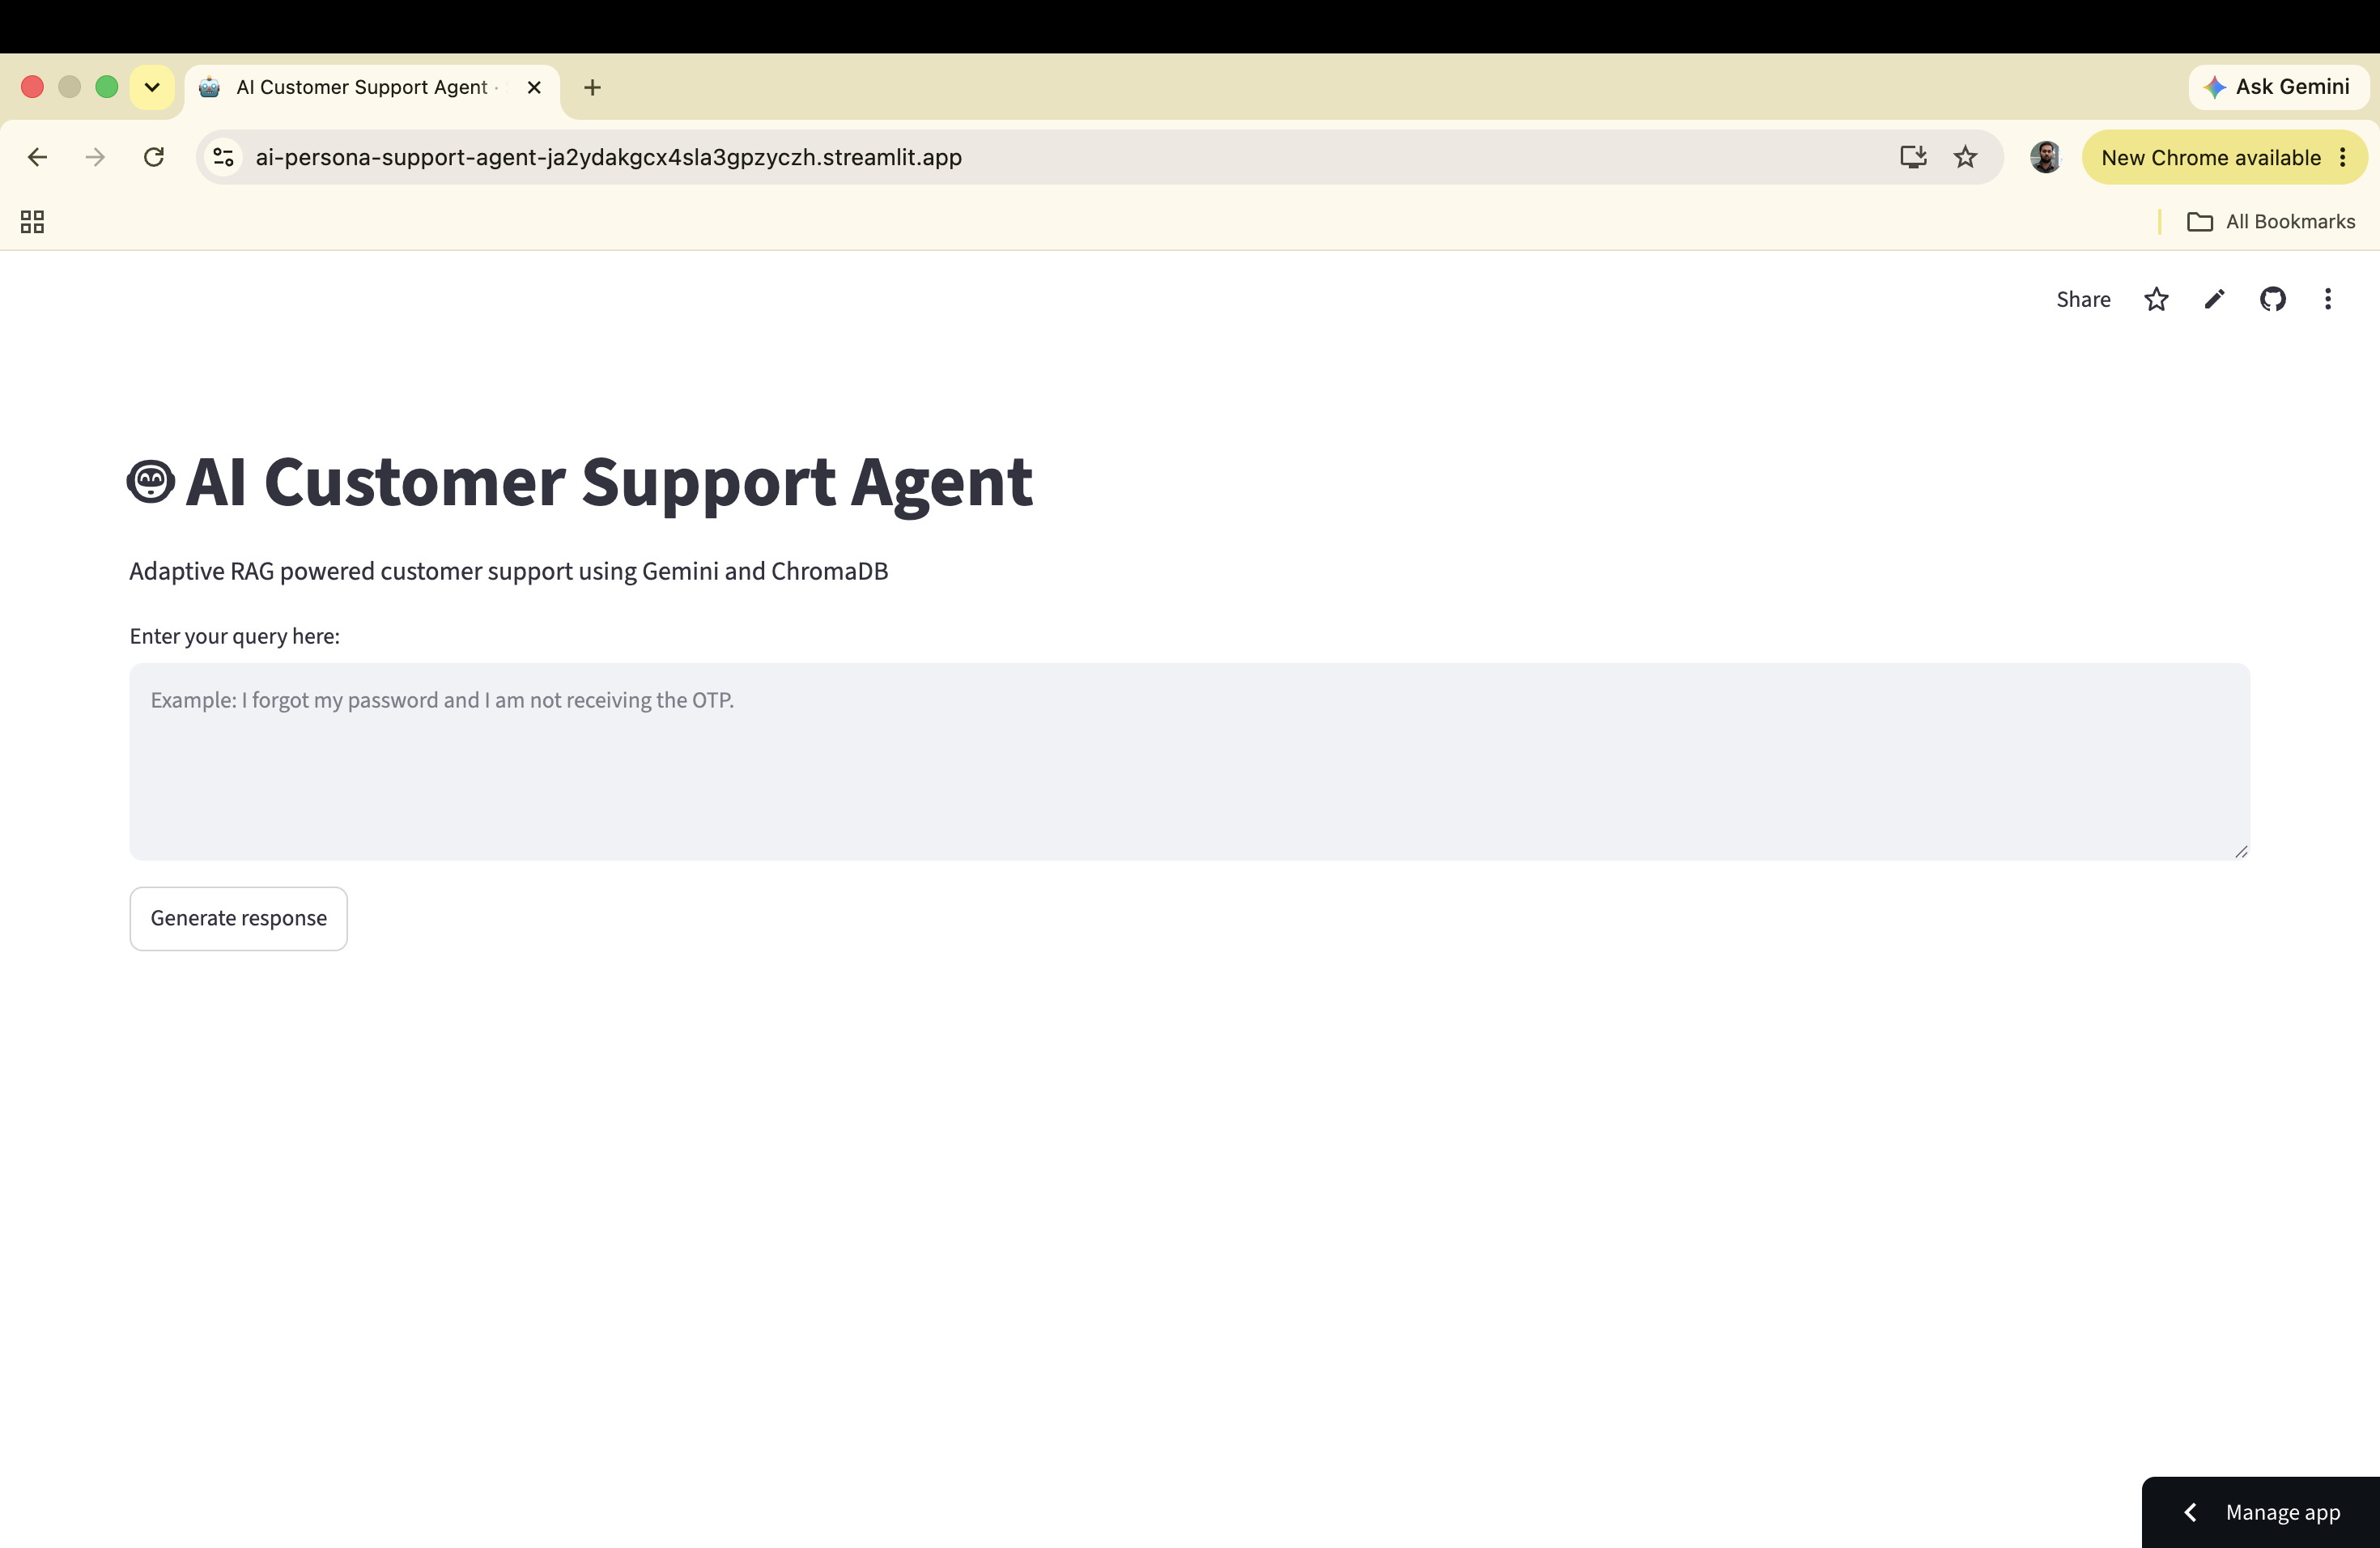
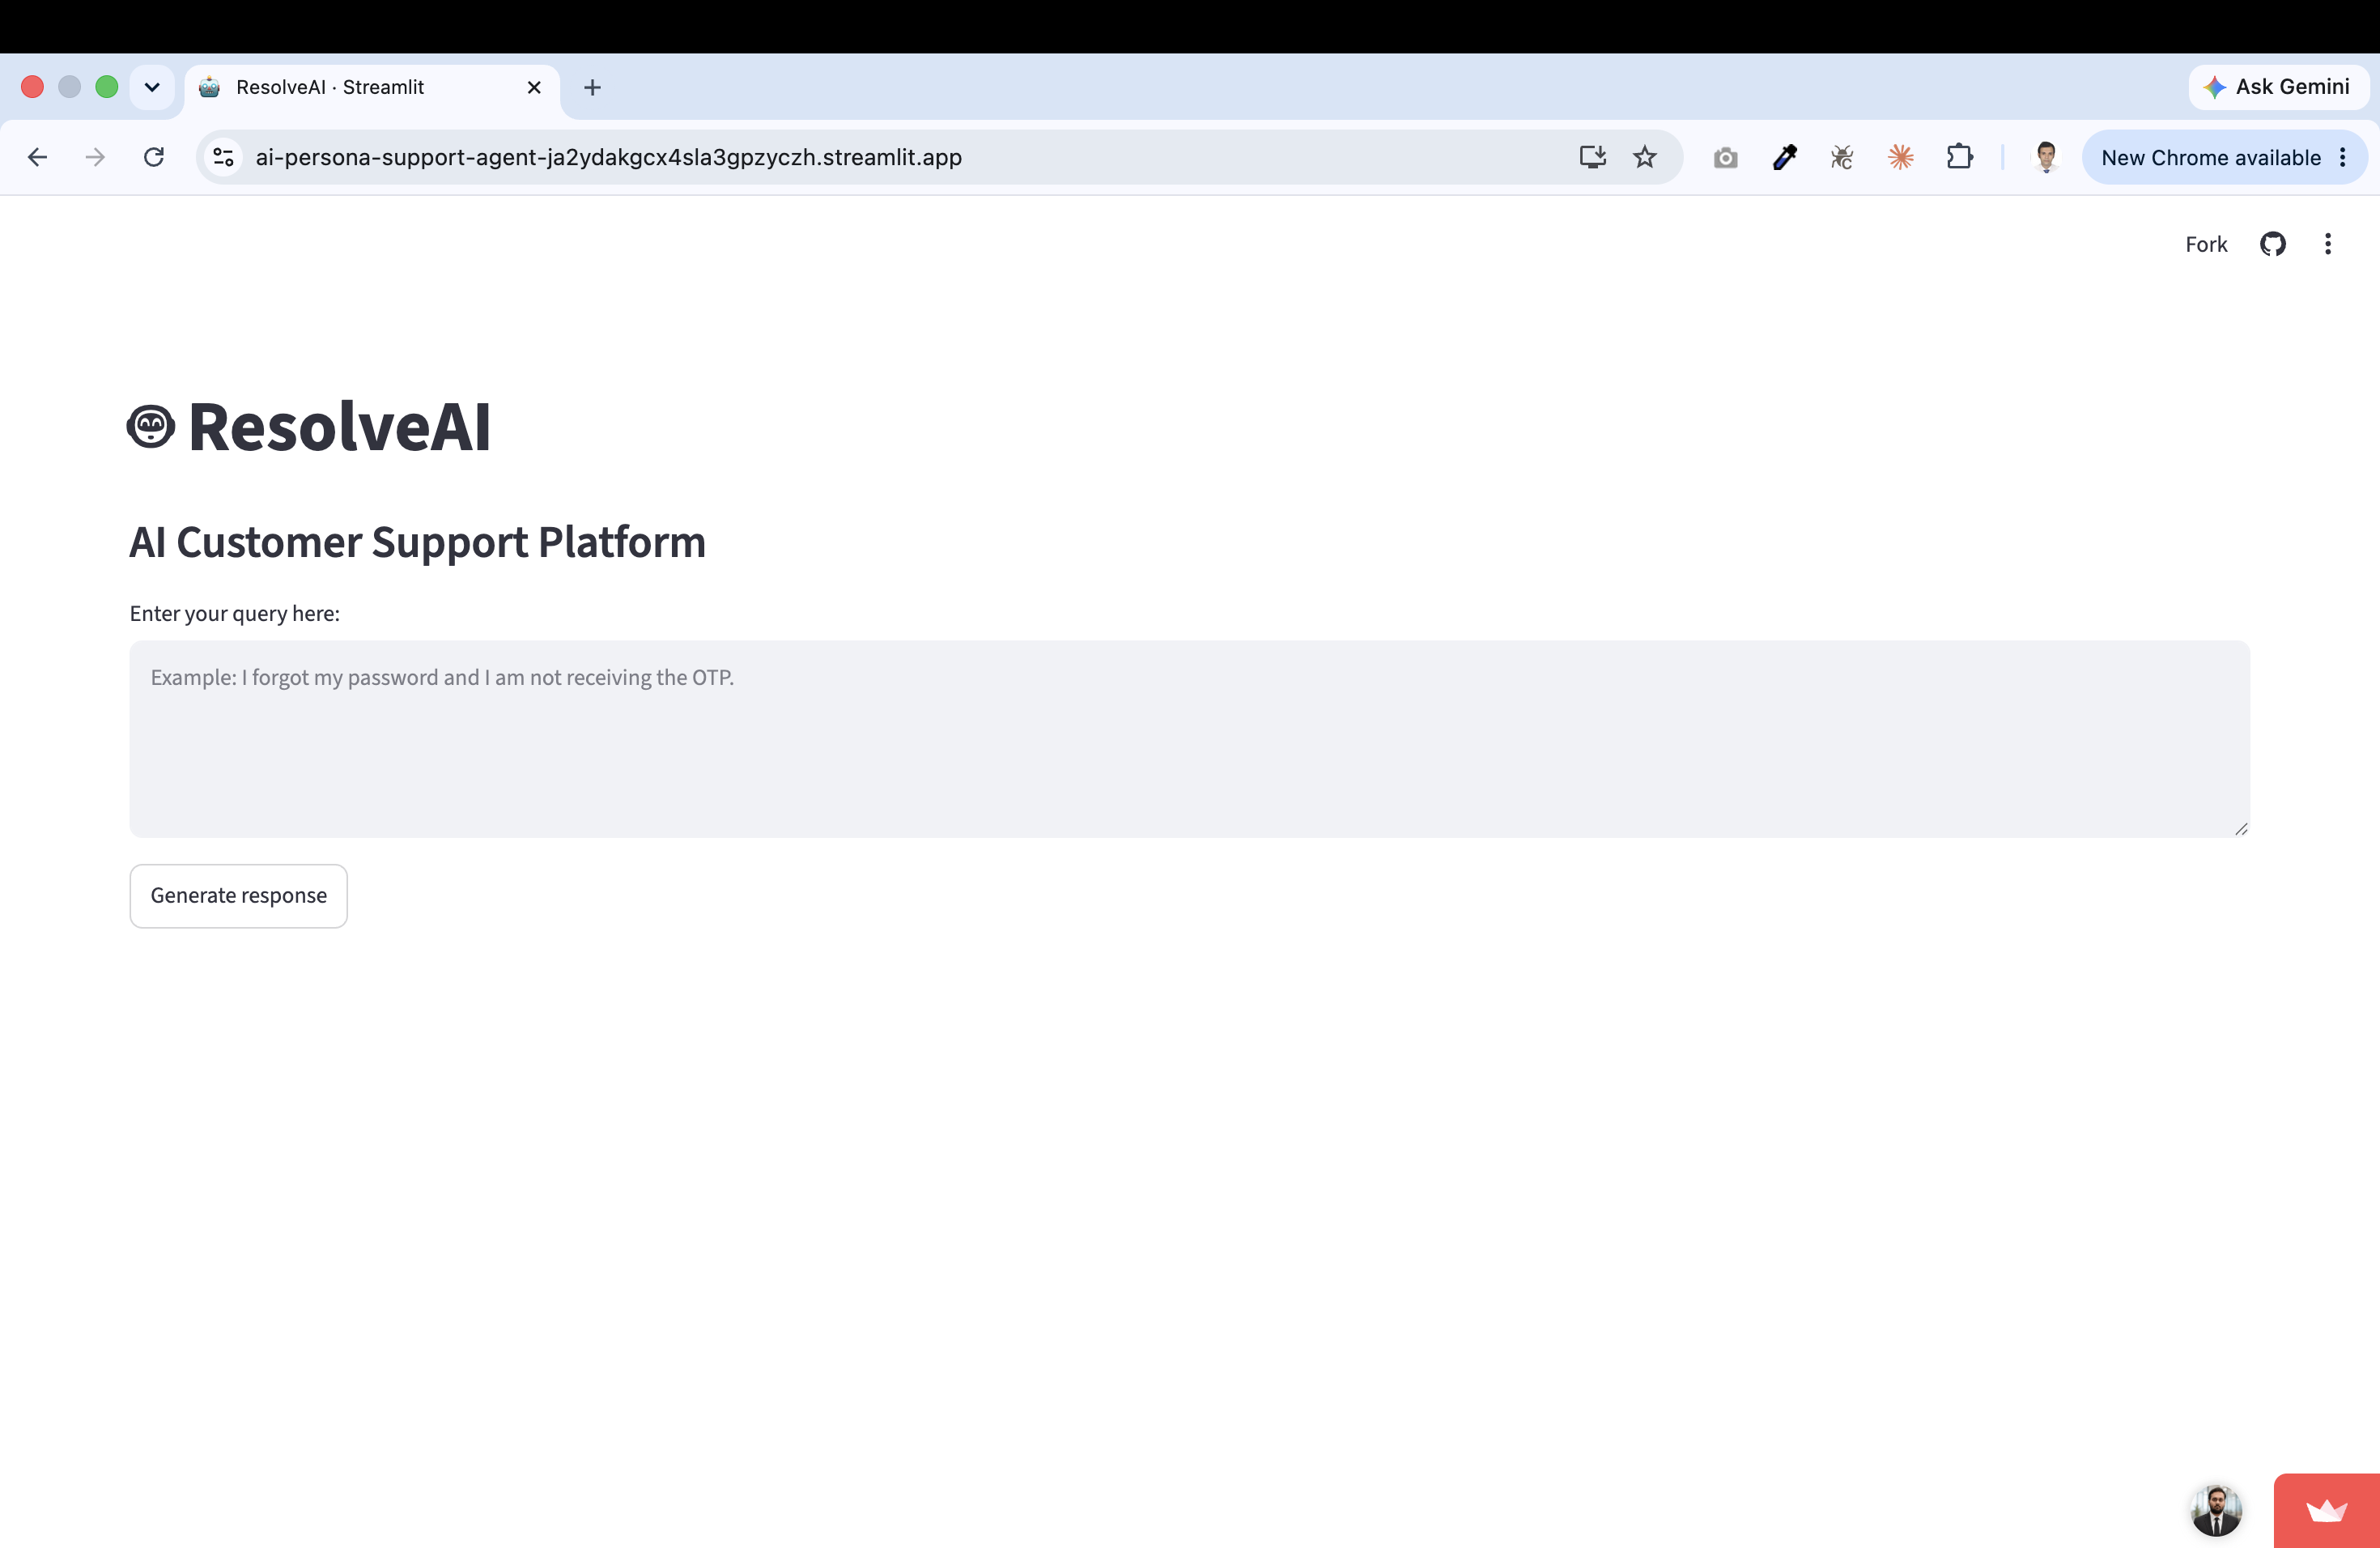
refactor: improve AI reliability and project documentation

diff --git a/src/ai_utils.py b/src/ai_utils.py
@@ -1,3 +1,4 @@
+import re
 import time 
 from collections.abc import Callable 
 from typing import Any
@@ -7,18 +8,32 @@ TEMPORARY_AI_ERRORS = [
     "unavailable",
     "high demand",
     "rate limit",
-    "quota",
     "deadline exceeded",
     "internal server error",
     "resource exhausted",
-    "service unavailable",
 ]
+
+def get_retry_delay(err: Exception, fallback_delay: int) -> int:
+    error_text = str(err).lower()
+
+    match = re.search(r"retrydelay.*?(\d+)s", error_text)
+    if match:
+        return int(match.group(1)) + 1
+
+    match = re.search(r"please retry in (\d+)s", error_text)
+    if match:
+        return int(match.group(1)) + 1
+
+    return fallback_delay
 
 def is_temporary_ai_error(err: Exception) -> bool:
     """
     Check if the error is a temporary AI error based on its message.
     """
     error_text = str(err).lower()
+
+    if "quota exceeded" in error_text :
+        return False  # These are not considered temporary errors for retry purposes
 
     return any(keyword in error_text for keyword in TEMPORARY_AI_ERRORS)
 
@@ -38,11 +53,14 @@ def retry_ai_call(
 
     for attempt in range(retries):
         try: 
-            return func(*args, **kwargs)
+            result = func(*args, **kwargs)
+            return result
         except Exception as error:
             last_error = error
             if is_temporary_ai_error(error) and attempt < retries - 1:
-                delay = initial_delay * (2 ** attempt)
+                fallback_delay = initial_delay * (2 ** attempt)
+                delay = get_retry_delay(error, fallback_delay)
+                
                 time.sleep(delay)
                 continue
             

diff --git a/app.py b/app.py
@@ -30,7 +30,6 @@ if st.button('Generate response'):
             context_chunks = format_search_results(results)
 
             response = retry_ai_call(generate_adaptive_response, user_query, persona, context_chunks)
-        
         st.subheader("Detected Persona:")
             
         st.markdown(f"**Persona:** {persona}")
@@ -57,7 +56,13 @@ if st.button('Generate response'):
             st.info("No files were retrieved.")
 
     except Exception as e:
-        if is_temporary_ai_error(e):
+        error_message = str(e).lower()
+        if 'quota exceeded' in error_message:
+            st.warning(
+                "ResolveAI has reached the free-tier quota for AI usage limit for today. \n\n"
+                "Please retry again later."
+            )
+        elif is_temporary_ai_error(e):
             st.warning(
                 "ResolveAI is temporarily experiencing high demand from the AI service.\n\n"
                 "Please wait a few moments and try again."

diff --git a/src/vector_store.py b/src/vector_store.py
@@ -44,7 +44,10 @@ def add_chunks_to_vector_store(chunks):
 
 def initialize_vector_store():
     if collection.count() > 0:
+        print("Using existing ChromaDB collection.")
         return 
+    
+    print("Building ChromaDB collection...")
     
     documents = load_documents()
     chunks = split_documents(documents)

diff --git a/README.md b/README.md
@@ -17,6 +17,7 @@ It is built with Google Gemini, ChromaDB, LangChain text splitting, and Streamli
 - Generated context-aware responses using Google Gemini
 - Added confidence-based escalation when retrieved context is insufficient
 - Created a Streamlit interface for testing support queries interactively
+- Implemented reusable retry handling with exponential backoff for improved resilience against temporary AI service failures
 
 ## Features ✨
 
@@ -34,6 +35,7 @@ It is built with Google Gemini, ChromaDB, LangChain text splitting, and Streamli
 - Supports `.md`, `.txt`, and `.pdf` knowledge documents
 - Automatic chunking with LangChain text splitters
 - Streamlit web interface
+- Automatic retry with exponential backoff for temporary AI service failures
 
 ## Tech Stack 🧰
 
@@ -83,12 +85,14 @@ flowchart TD
 customer-support-agent/
 |
 |-- app.py
+|-- chroma_db
 |-- requirements.txt
 |-- README.md
 |-- .env.example
 |-- data/
 |-- screenshots/
 |-- src/
+|   |-- ai_utils.py
 |   |-- config.py
 |   |-- rag_pipeline.py
 |   |-- vector_store.py
@@ -102,11 +106,13 @@ customer-support-agent/
 | File | Responsibility |
 |---|---|
 | `app.py` | Streamlit entry point; handles user interaction and app flow |
+| `chroma_db` | Pre-built ChromaDB vector store containing generated embeddings for faster startup and reduced embedding API usage |
 | `requirements.txt` | Python dependencies for local/dev/deployment setup |
 | `README.md` | Project documentation |
 | `.env.example` | Template for environment variable configuration |
 | `data/` | Knowledge base source files (`.md`, `.txt`, `.pdf`) used for retrieval |
 | `screenshots/` | UI and result screenshots for documentation |
+| `src/ai_utils.py` | Shared utilities for AI retry handling, exponential backoff, and temporary error detection |
 | `src/config.py` | Centralized configuration (paths, model names, constants) |
 | `src/rag_pipeline.py` | End-to-end orchestration of the RAG workflow |
 | `src/vector_store.py` | ChromaDB initialization, indexing, and retrieval operations |
@@ -120,7 +126,7 @@ customer-support-agent/
 1. Clone the repository
 
 ```bash
-git clone https://github.com/<your-username>/ai-persona-support-agent.git
+git clone https://github.com/avanishtatat/ai-persona-support-agent.git
 cd ai-persona-support-agent
 ```
 
@@ -158,6 +164,12 @@ cp .env.example .env
 streamlit run app.py
 ```
 
+> **Note**
+>
+> This project includes a pre-built **ChromaDB** vector store generated from the sample knowledge-base documents. Including the vector database avoids regenerating embeddings on every deployment, resulting in faster startup and reduced embedding API usage.
+>
+> If you modify or add knowledge-base documents, regenerate the vector store before running or deploying the application.
+
 ## Environment Variables 🔐
 
 | Variable | Required | Description |
@@ -166,7 +178,7 @@ streamlit run app.py
 
 ## Deployment 🌐
 
-This application is deployed using **Streamlit Community Cloud**.
+This application is deployed on **Streamlit Community Cloud** and uses a persistent ChromaDB vector store for fast document retrieval.
 
 - Live App: `https://ai-persona-support-agent-ja2ydakgcx4sla3gpzyczh.streamlit.app/`
 